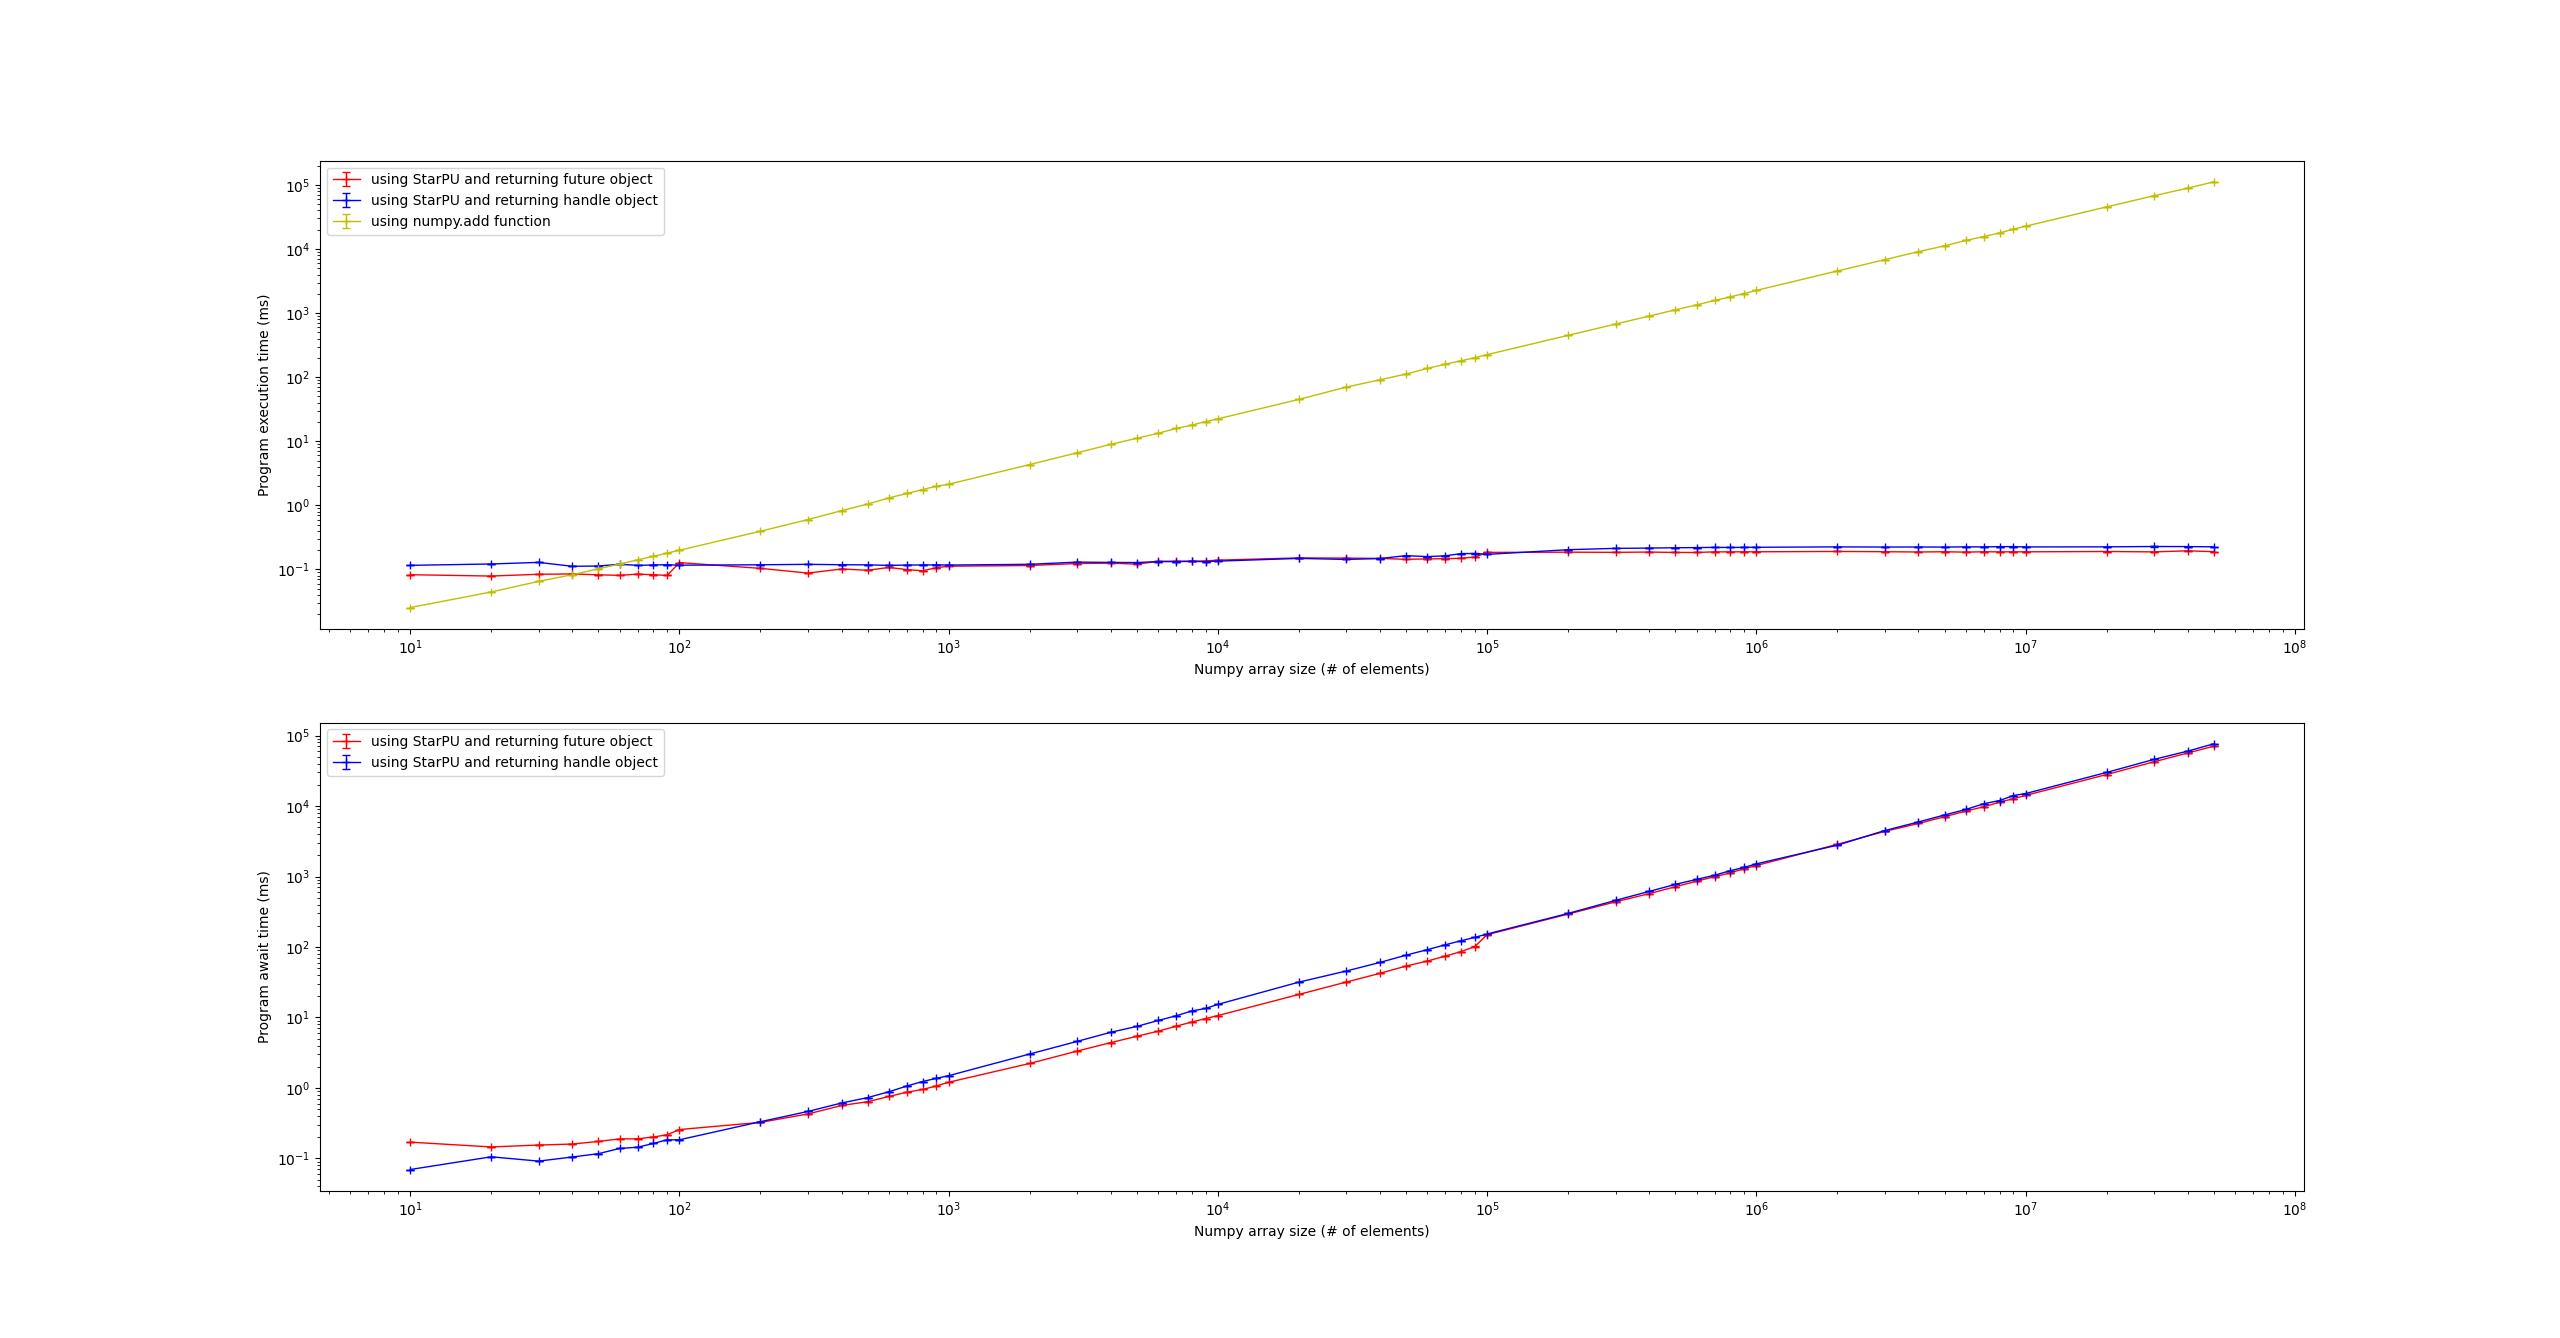
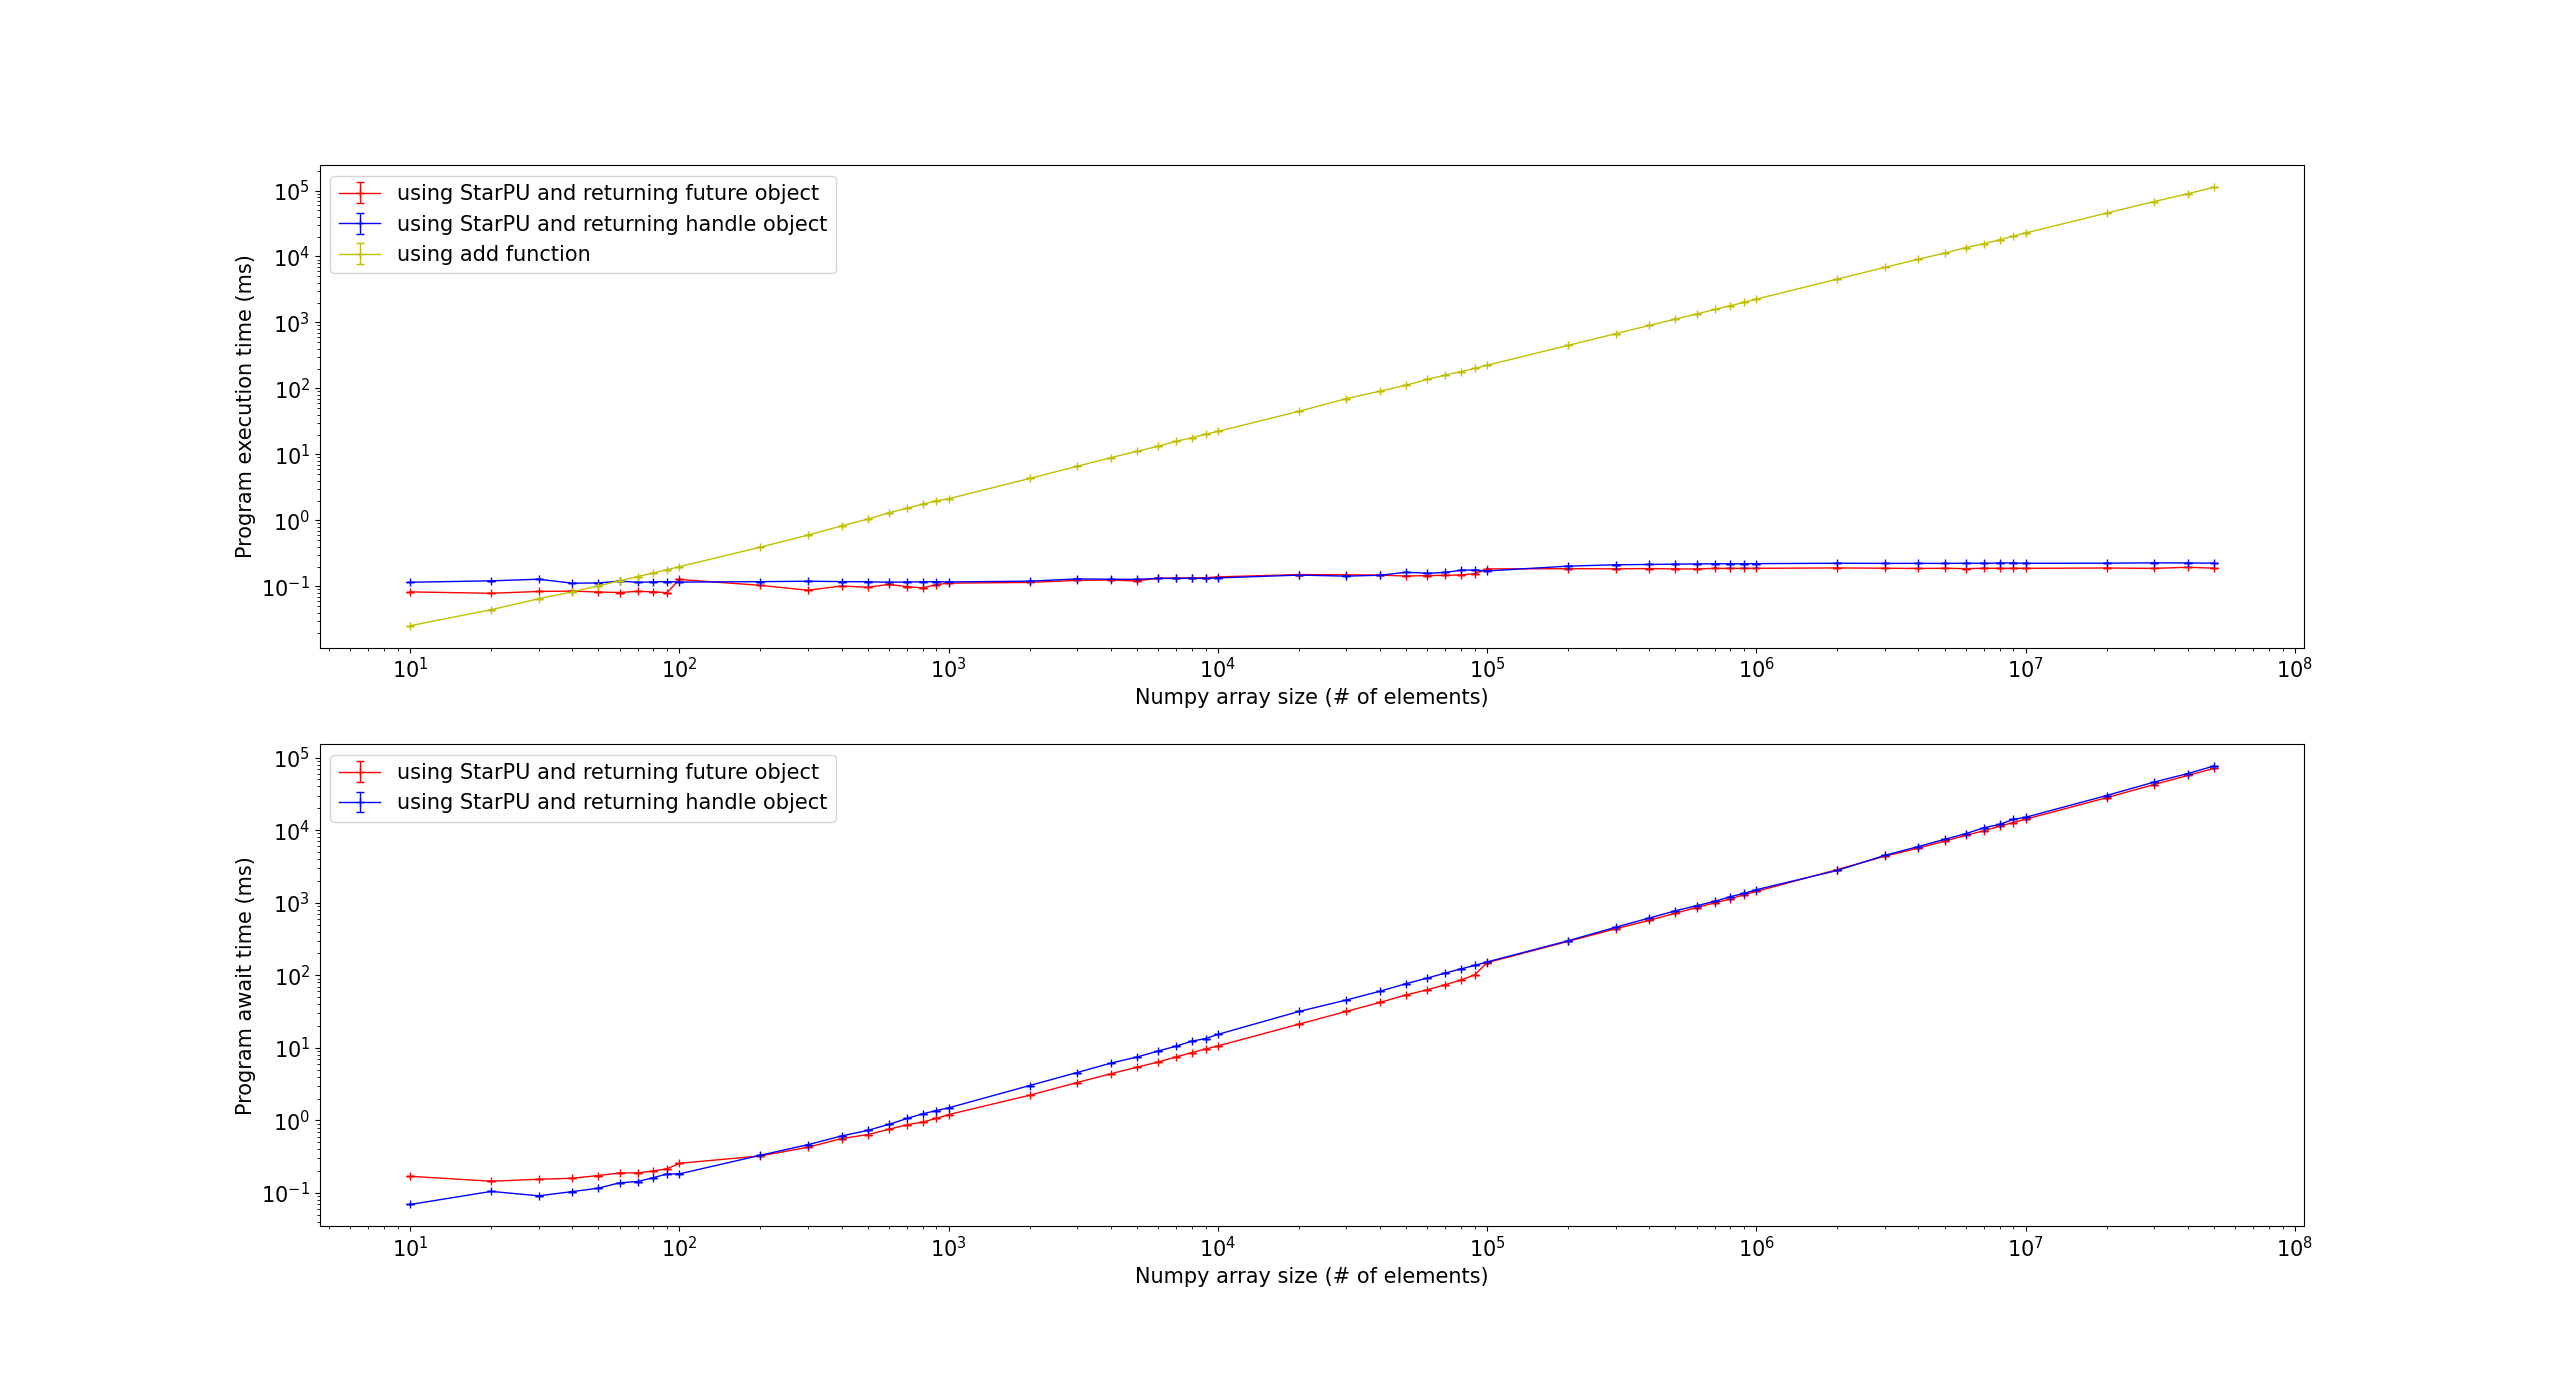
doc: modify the chapter of Python interface

diff --git a/starpupy/benchmark/perf_plot.py b/starpupy/benchmark/perf_plot.py
@@ -24,13 +24,6 @@ retfut_dict = json.loads(js1)
 program_submit1 = [x*1000 for x in retfut_dict['program_submit']]
 program_await1 = [x*1000 for x in retfut_dict['program_await']]
 
-file2 = open('handle_perf2.txt', 'r')
-js2 = file2.read()
-rethandle_dict = json.loads(js2)
-#print(rethandle_dict)
-program_submit2 = [x*1000 for x in rethandle_dict['program_submit']]
-program_await2 = [x*1000 for x in rethandle_dict['program_await']]
-
 file3 = open('handle_perf3.txt', 'r')
 js3 = file3.read()
 nostarpu_dict = json.loads(js3)
@@ -42,14 +35,11 @@ js_std = file_std.read()
 dict_std = json.loads(js_std)
 
 file1.close()
-file2.close()
 file3.close()
 file_std.close()
 
 std11 = dict_std['list_std11']
 std12 = dict_std['list_std12']
-std21 = dict_std['list_std21']
-std22 = dict_std['list_std22']
 std3 = dict_std['list_std3']
 
 plt.subplot(2, 1, 1)
@@ -57,8 +47,7 @@ plt.xticks(fontsize=15)
 plt.yticks(fontsize=15)
 plt.xscale("log")
 plt.yscale("log")
-plt.errorbar([i for i in test_handle_bench.list_size], program_submit1, yerr=std11, fmt='+-', ecolor='r', color='r', elinewidth=1, capsize=3, linewidth=1, label='using StarPU and returning future object')
-plt.errorbar([i for i in test_handle_bench.list_size], program_submit2, yerr=std21, fmt='+-', ecolor='b', color='b', elinewidth=1, capsize=3, linewidth=1, label='using StarPU and returning handle object')
+plt.errorbar([i for i in test_handle_bench.list_size], program_submit1, yerr=std11, fmt='+-', ecolor='r', color='r', elinewidth=1, capsize=3, linewidth=1, label='using StarPU')
 plt.errorbar([i for i in test_handle_bench.list_size], program_submit3, yerr=std3, fmt='+-',ecolor='y', color='y', elinewidth=1, capsize=3, linewidth=1, label='using numpy.add function')
 
 plt.legend(loc='upper left', fontsize=15)
@@ -70,8 +59,7 @@ plt.xticks(fontsize=15)
 plt.yticks(fontsize=15)
 plt.xscale("log")
 plt.yscale("log")
-plt.errorbar([i for i in test_handle_bench.list_size], program_await1, yerr=std12, fmt='+-',ecolor='r', color='r', elinewidth=1, capsize=3, linewidth=1, label='using StarPU and returning future object')
-plt.errorbar([i for i in test_handle_bench.list_size], program_await2, yerr=std22, fmt='+-',ecolor='b', color='b', elinewidth=1, capsize=3, linewidth=1, label='using StarPU and returning handle object')
+plt.errorbar([i for i in test_handle_bench.list_size], program_await1, yerr=std12, fmt='+-',ecolor='r', color='r', elinewidth=1, capsize=3, linewidth=1, label='using StarPU')
 
 plt.legend(loc='upper left', fontsize=15)
 plt.xlabel("Numpy array size (# of elements)", fontsize=15)
